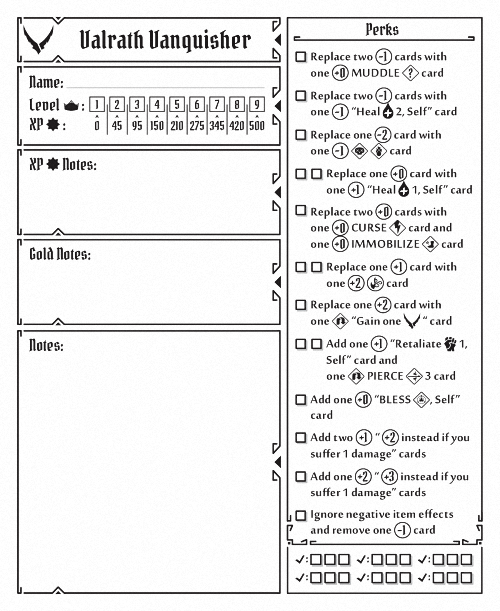
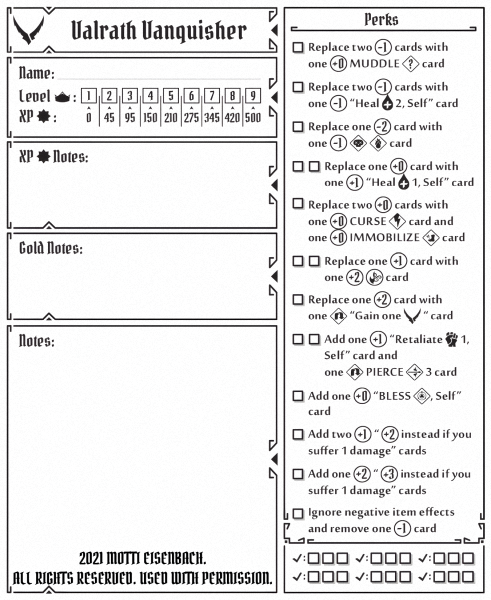
Implement New TOA CP Assets with Copyright, Standardized Sizes & Asset Numbers

Changed region(s): [[0.0, 0.0, 1.0, 0.99]]

diff --git a/data/character-perks.js b/data/character-perks.js
@@ -1010,43 +1010,89 @@
   {
     "name": "incarnate perks",
     "points": 126,
-    "expansion": "trail of ashes",
-    "image": "character-perks/trail-of-ashes/toa-incarnate-perks.png",
-    "xws": "incarnateperks"
+    "expansion": "crimson scales",
+    "image": "character-perks/crimson-scales/toa-incarnate-perks.png",
+    "xws": "incarnateperks",
+    "assetno": "###"
+  },
+  {
+    "name": "three-eyes perks",
+    "points": 127,
+    "expansion": "crimson scales",
+    "image": "character-perks/crimson-scales/toa-incarnate-perks.png",
+    "xws": "threeeyesperks",
+    "assetno": "###"
   },
   {
     "name": "rimehearth perks",
-    "points": 127,
-    "expansion": "trail of ashes",
-    "image": "character-perks/trail-of-ashes/toa-rimehearth-perks.png",
-    "xws": "rimehearthperks"
+    "points": 128,
+    "expansion": "crimson scales",
+    "image": "character-perks/crimson-scales/toa-rimehearth-perks.png",
+    "xws": "rimehearthperks",
+    "assetno": "###"
+  },
+  {
+    "name": "ice meteor perks",
+    "points": 129,
+    "expansion": "crimson scales",
+    "image": "character-perks/crimson-scales/toa-rimehearth-perks.png",
+    "xws": "icemeteorperks",
+    "assetno": "###"
   },
   {
     "name": "shardrender perks",
-    "points": 128,
-    "expansion": "trail of ashes",
-    "image": "character-perks/trail-of-ashes/toa-shardrender-perks.png",
-    "xws": "shardrenderperks"
+    "points": 130,
+    "expansion": "crimson scales",
+    "image": "character-perks/crimson-scales/toa-shardrender-perks.png",
+    "xws": "shardrenderperks",
+    "assetno": "###"
+  },
+  {
+    "name": "gemstone perks",
+    "points": 131,
+    "expansion": "crimson scales",
+    "image": "character-perks/crimson-scales/toa-shardrender-perks.png",
+    "xws": "gemstoneperks",
+    "assetno": "###"
   },
   {
     "name": "tempest perks",
-    "points": 129,
-    "expansion": "trail of ashes",
-    "image": "character-perks/trail-of-ashes/toa-tempest-perks.png",
-    "xws": "tempestperks"
+    "points": 132,
+    "expansion": "crimson scales",
+    "image": "character-perks/crimson-scales/toa-tempest-perks.png",
+    "xws": "tempestperks",
+    "assetno": "###"
+  },
+  {
+    "name": "storm cloud perks",
+    "points": 133,
+    "expansion": "crimson scales",
+    "image": "character-perks/crimson-scales/toa-tempest-perks.png",
+    "xws": "stormcloudperks",
+    "assetno": "###"
   },
   {
     "name": "thornreaper perks",
-    "points": 130,
-    "expansion": "trail of ashes",
-    "image": "character-perks/trail-of-ashes/toa-thornreaper-perks.png",
-    "xws": "thornreaperperks"
+    "points": 134,
+    "expansion": "crimson scales",
+    "image": "character-perks/crimson-scales/toa-thornreaper-perks.png",
+    "xws": "thornreaperperks",
+    "assetno": "###"
+  },
+  {
+    "name": "spiked ring perks",
+    "points": 135,
+    "expansion": "crimson scales",
+    "image": "character-perks/crimson-scales/toa-thornreaper-perks.png",
+    "xws": "spikedringperks",
+    "assetno": "###"
   },
   {
     "name": "vanquisher perks",
-    "points": 131,
-    "expansion": "trail of ashes",
-    "image": "character-perks/trail-of-ashes/toa-vanquisher-perks.png",
-    "xws": "vanquisherperks"
+    "points": 136,
+    "expansion": "crimson scales",
+    "image": "character-perks/crimson-scales/toa-vanquisher-perks.png",
+    "xws": "vanquisherperks",
+    "assetno": "###"
   }
 ]

diff --git a/index.html b/index.html
@@ -17604,8 +17604,12 @@
 					<h1><i class="fa fa-plus"></i> Character Perks </h1>
 					<div class="textzone">
 						<table class="table-padded">
-							<tr><td>Incarnate Perks </td><td>Shardrender Perks</td><td>Thornreaper Perks</td></tr>
-							<tr><td>Rimehearth Perks</td><td>Tempest Perks    </td></tr>
+							<tr><td class="td-bu">Asset Name (Spoiler)</td><td class="td-bu">Asset Name (Non-Spoiler)</td></tr>
+							<tr><td>Incarnate Perks  </td><td>Three-Eyes Perks </td></tr>
+							<tr><td>Rimehearth Perks </td><td>Ice Meteor Perks </td></tr>
+							<tr><td>Shardrender Perks</td><td>Gemstone Perks   </td></tr>
+							<tr><td>Tempest Perks    </td><td>Storm Cloud Perks</td></tr>
+                            <tr><td>Thornreaper Perks</td><td>Spiked Ring Perks</td></tr>
 						</table>
 					</div>
 
@@ -18234,8 +18238,15 @@
 					<h1><i class="fa fa-plus"></i> Character Perks </h1>
 					<div class="textzone">
 						<table class="table-padded">
-							<tr><td>Incarnate Perks </td><td>Shardrender Perks</td><td>Thornreaper Perks</td></tr>
-							<tr><td>Rimehearth Perks</td><td>Tempest Perks    </td><td>Vanquisher Perks </td></tr>
+							<tr><td class="td-bu">Asset Name (Spoiler)</td><td class="td-bu">Asset Name (Non-Spoiler)</td></tr>
+							<tr><td>Incarnate Perks  </td><td>Three-Eyes Perks </td></tr>
+							<tr><td>Rimehearth Perks </td><td>Ice Meteor Perks </td></tr>
+							<tr><td>Shardrender Perks</td><td>Gemstone Perks   </td></tr>
+							<tr><td>Tempest Perks    </td><td>Storm Cloud Perks</td></tr>
+                            <tr><td>Thornreaper Perks</td><td>Spiked Ring Perks</td></tr>
+                            <tr><td>Vanquisher Perks </td></tr>
+						</table>
+					</div>
 						</table>
 					</div>
 
